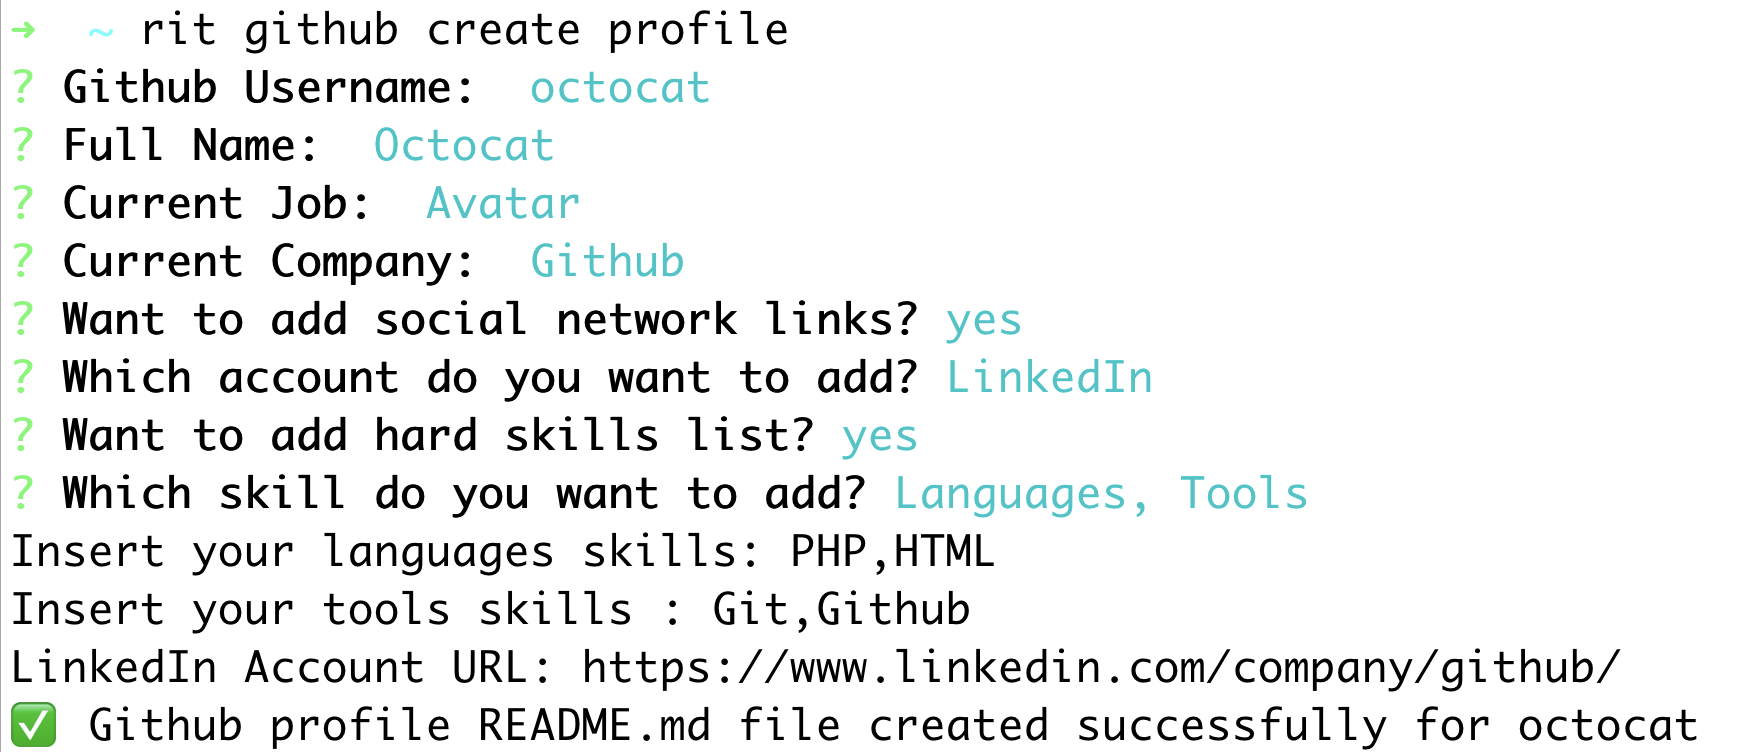
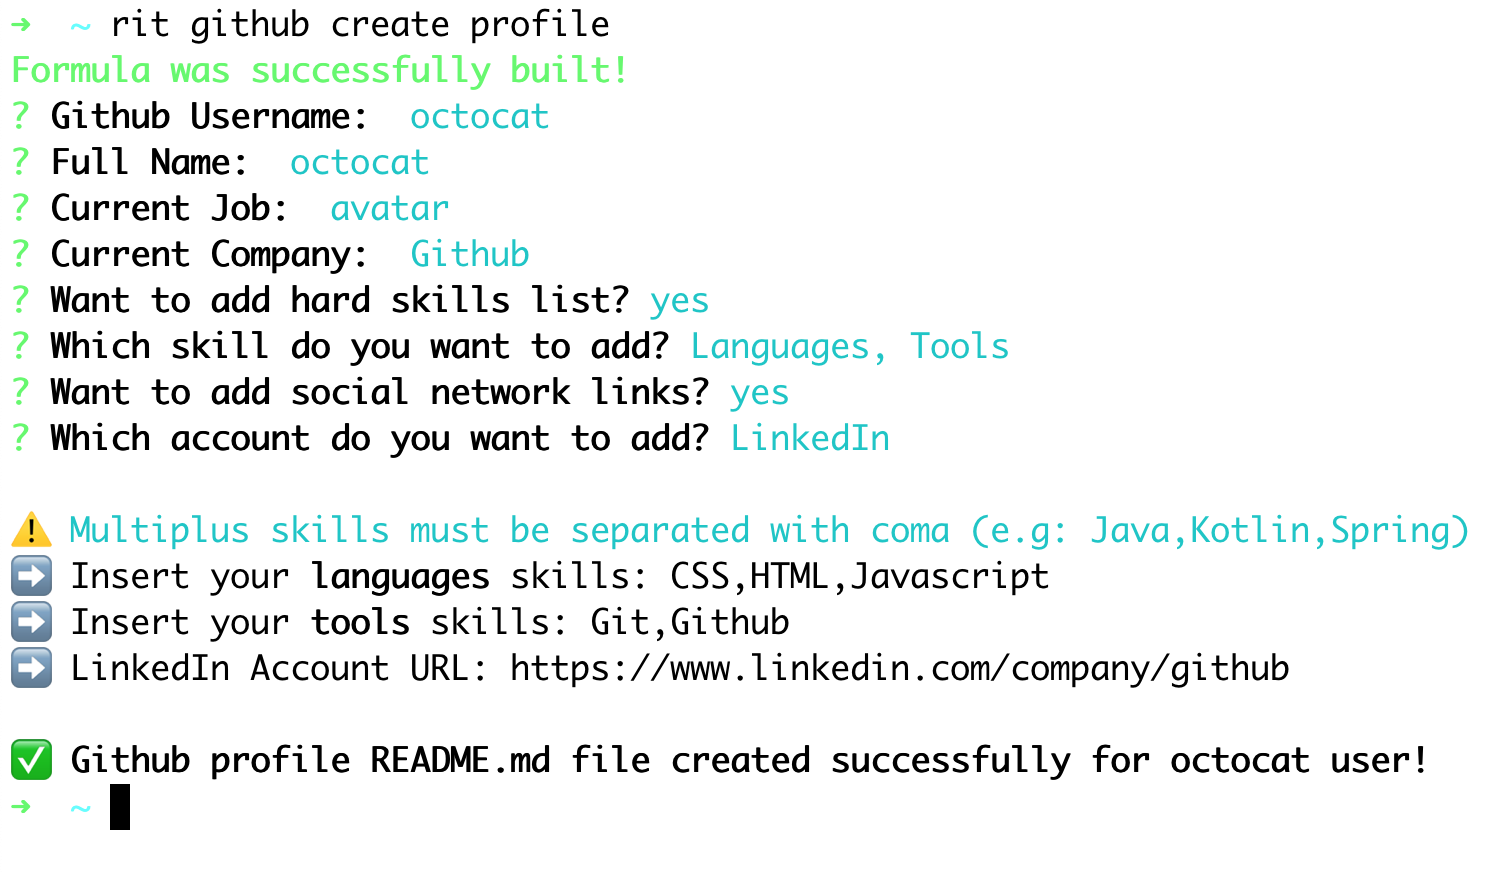
update rit github create profile formula

Changed region(s): [[0.0, 0.5505, 0.9866, 1.0], [0.0, 0.0, 0.6783, 0.5199], [0.6166, 0.367, 0.6783, 0.4282]]

diff --git a/github/create/profile/src/formula/formula.py b/github/create/profile/src/formula/formula.py
@@ -35,7 +35,7 @@ def run(username, name, job, company, hardskills, accounts):
 
     mdFile.create_md_file()
 
-    print('✅ Github profile README.md file created successfully for {}'.format(username))
+    print('\n✅ \033[1mGithub profile README.md file created successfully for {} user!\033[0m'.format(username))
 
 
 def add_introduction(mdFile, username, name, job, company):
@@ -54,44 +54,45 @@ def add_hardskills(mdFile, hardskillset):
     mdFile.write("\n\n### Languages & Tools 🛠")
     hard_skill_list = hardskillset.split("|")
     mdFile.write('  \n')
-    print("Multiplus skills have to be separated with coma without space (e.g: Java,Kotlin,Spring)")
+    print("\n⚠  \033[36mMultiplus skills must be separated with coma (e.g: Java,Kotlin,Spring)\033[0m")
+
     for hard_skill in hard_skill_list:
 
         if hard_skill == "Languages":
-            language = input("Insert your languages skills: ")
-            language.replace(" ", "")
+            language = input("➡  Insert your \033[1mlanguages\033[0m skills: ")
+            language = language.replace(" ", "")
             for item in language.split(","):
                 mdFile.write(skills.format(item, item, "green"))
             mdFile.write('  \n')
 
         if hard_skill == "Frameworks":
-            framework = input("Insert your frameworks skills: ")
-            framework.replace(" ", "")
+            framework = input("➡  Insert your \033[1mframeworks\033[0m skills: ")
+            framework = framework.replace(" ", "")
             for item in framework.split(","):
                 mdFile.write(skills.format(item, item, "orange"))
             mdFile.write('  \n')
 
         if hard_skill == "Data Banks":
-            database = input("Insert your data banks skills: ")
-            database.replace(" ", "")
+            database = input("➡  Insert your \033[1mdata banks\033[0m skills: ")
+            database = database.replace(" ", "")
             for item in database.split(","):
                 mdFile.write(skills.format(item, item, "yellow"))
             mdFile.write('  \n')
 
         if hard_skill == "Cloud":
-            cloud = input("Insert your cloud skills: ")
-            cloud.replace(" ", "")
+            cloud = input("➡  Insert your \033[1mcloud\033[0m skills: ")
+            cloud = cloud.replace(" ", "")
             for item in cloud.split(","):
                 mdFile.write(skills.format(item, item, "blue"))
             mdFile.write('  \n')
 
         if hard_skill == "Tools":
-            tools = input("Insert your tools skills: ")
-            tools.replace(" ", "")
+            tools = input("➡  Insert your \033[1mtools\033[0m skills: ")
+            tools = tools.replace(" ", "")
             for item in tools.split(","):
                 mdFile.write(skills.format(item, item, "gray"))
             mdFile.write('  \n')
-            
+
 
 def add_accounts_url(mdFile, accounts):
     mdFile.write("\n\n### Let's connect? 🤝")
@@ -101,23 +102,23 @@ def add_accounts_url(mdFile, accounts):
     for social_network in social_networks_list:
 
         if social_network == "LinkedIn":
-            linkedin_url = input("LinkedIn Account URL: ")
+            linkedin_url = input("➡  LinkedIn Account URL: ")
             mdFile.new_paragraph(linkedin.format(linkedin_url))
 
         if social_network == "Twitter":
-            twitter_url = input("Twitter Account URL: ")
+            twitter_url = input("➡  Twitter Account URL: ")
             mdFile.new_paragraph(twitter.format(twitter_url))
 
         if social_network == "Instagram":
-            instagram_url = input("Instagram Account URL: ")
+            instagram_url = input("➡  Instagram Account URL: ")
             mdFile.new_paragraph(instagram.format(instagram_url))
 
         if social_network == "Facebook":
-            facebook_url = input("Facebook Account URL: ")
+            facebook_url = input("➡  Facebook Account URL: ")
             mdFile.new_paragraph(facebook.format(facebook_url))
 
         if social_network == "Medium":
-            medium_url = input("Medium Account URL: ")
+            medium_url = input("➡  Medium Account URL: ")
             mdFile.new_paragraph(medium.format(medium_url))
 
     mdFile.new_paragraph(paragraph_end)
